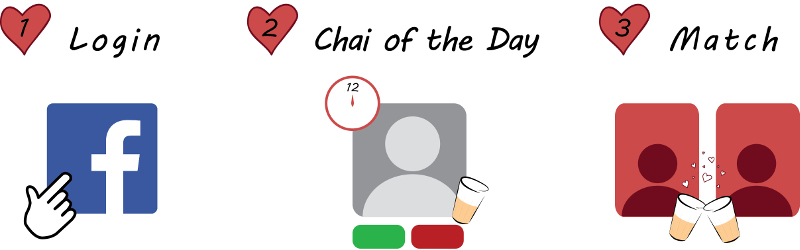
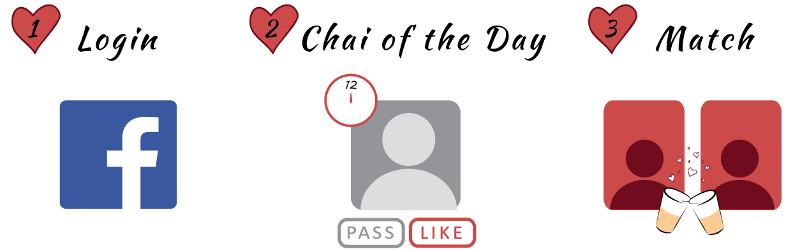
How it Works

diff --git a/app/views/landing.scala.html b/app/views/landing.scala.html
@@ -18,6 +18,7 @@
         }
         section {
             height: 100%;
+            padding-top: 45px;
         }
 
         #letschai-logo {
@@ -35,14 +36,23 @@
             font-style: italic;
             font-weight: bold;
         }
-        .menu-bar {
+        header {
             background-color: #303030;
             font-size: 16px;
+            position: fixed;
+            width: 100%;
+            top: 0;
+            height: 45px;
         }
         .menu-bar-item {
             color: white;
             padding: 1% 3%;
             display: inline-block;
+        }
+        .menu-bar-item a {
+            color: white;
+            font-weight: bold;
+            text-decoration: none;
         }
         .sign-up-wrapper {
             margin: 4% auto;
@@ -70,20 +80,32 @@
         h1 {
             color: #c84A49;
             text-align: center;
+            margin-top: 5%;
         }
-        #howitoworks img {
+        #howitworks img {
             width: 65%;
+            margin-top: 5%;
         }
         #howitworks-text {
             text-align: center;
-            width: 65%;
-            margin: 1% auto;
+            width: 70%;
+            margin: 2% 0 2% 16%;
             font-size: 15px;
         }
         .image-text {
             width: 25%;
             display: inline-block;
-            padding: 0 4%;
+            padding: 0 3.5%;
+            vertical-align: top;
+        }
+        @@media screen and (max-width: 992px) {
+            #howitworks img {
+                width: 105%;
+            }
+            #howitworks-text {
+                width: 100%;
+                margin: 2% 0;
+            }
         }
 
 
@@ -91,19 +113,17 @@
 </head>
 <body>
 
+<header>
+    <div class="menu-bar-item"><a href="#about">About</a></div>
+    <div class="menu-bar-item"><a href="#howitworks">How it Works</a></div>
+    <div class="menu-bar-item"><a>Contact</a></div>
+</header>
 
 <section id="main">
-
-    <header class="menu-bar">
-        <div class="menu-bar-item">About</div>
-        <div class="menu-bar-item">How it Works</div>
-        <div class="menu-bar-item">Contact</div>
-    </header>
-
     <img id="letschai-logo" src="/assets/images/letschai_logo.png"></img>
 
     <div id="welcome-text">
-        <p>Connect through friends. Get one new match every day at noon.</p>
+        <p>Connect through friends. Get a new match every day.</p>
         <p>It's <span class="red-text">private</span>, <span class="red-text">secure</span>, and <span class="red-text">free</span>.</p>
     </div>
 
@@ -120,16 +140,13 @@
     <img src="/assets/images/howitworks.jpg" />
     <div id="howitworks-text">
         <div class="image-text">
-            Facebook helps us create a safe network by validating your potential matches and filtering by mutual friends. We never post anything on your profile.
-            <br />This is a PRIVATE SERVICE.
+            Login with Facebook to verify your identity. Let's Chai never posts on your wall.
         </div>
         <div class="image-text">
-            Chai of the Day is your potential match who will be sent to you once everyday. “like” or “pass” your match.
-            <br />Responses are anonymous until both parties hit "like"
+            Receive a new "Chai" every day through mutual friends.
         </div>
         <div class="image-text">
-            Match is made when you and your "Chai of the Day" like each other and your name will be revealed. Start chatting on our secure messenger.
-            <br />We NEVER reveal your phone numbers
+            Chat with your matches after mutual acceptance. Chai on!
         </div>
     </div>
 
